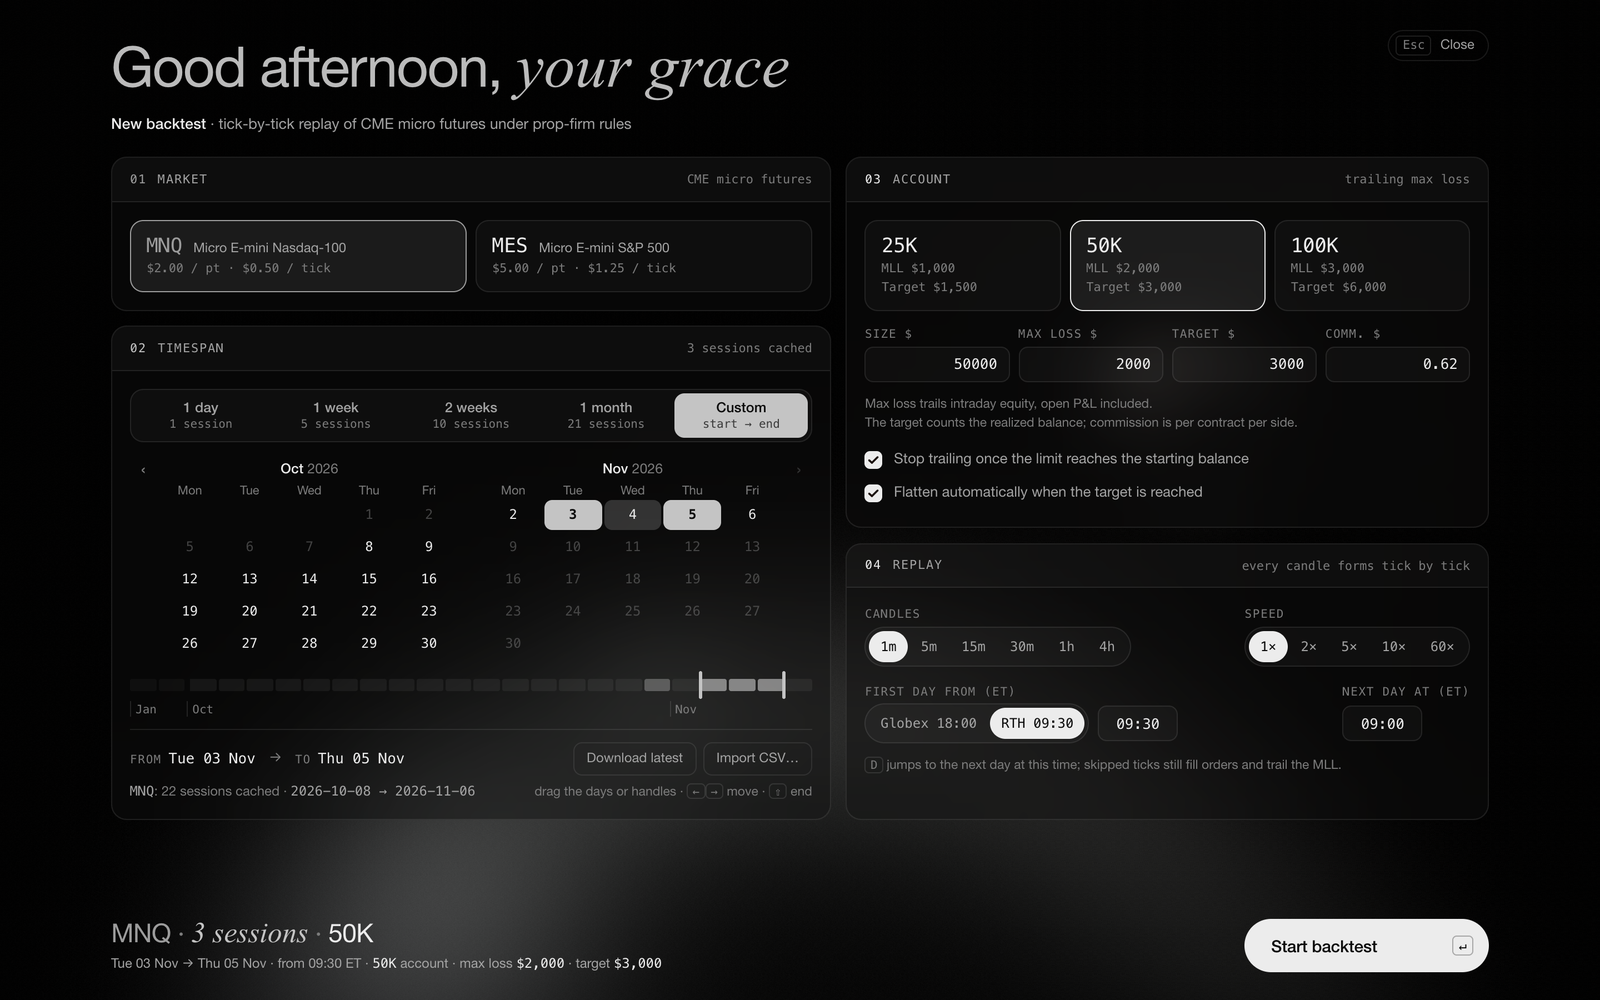
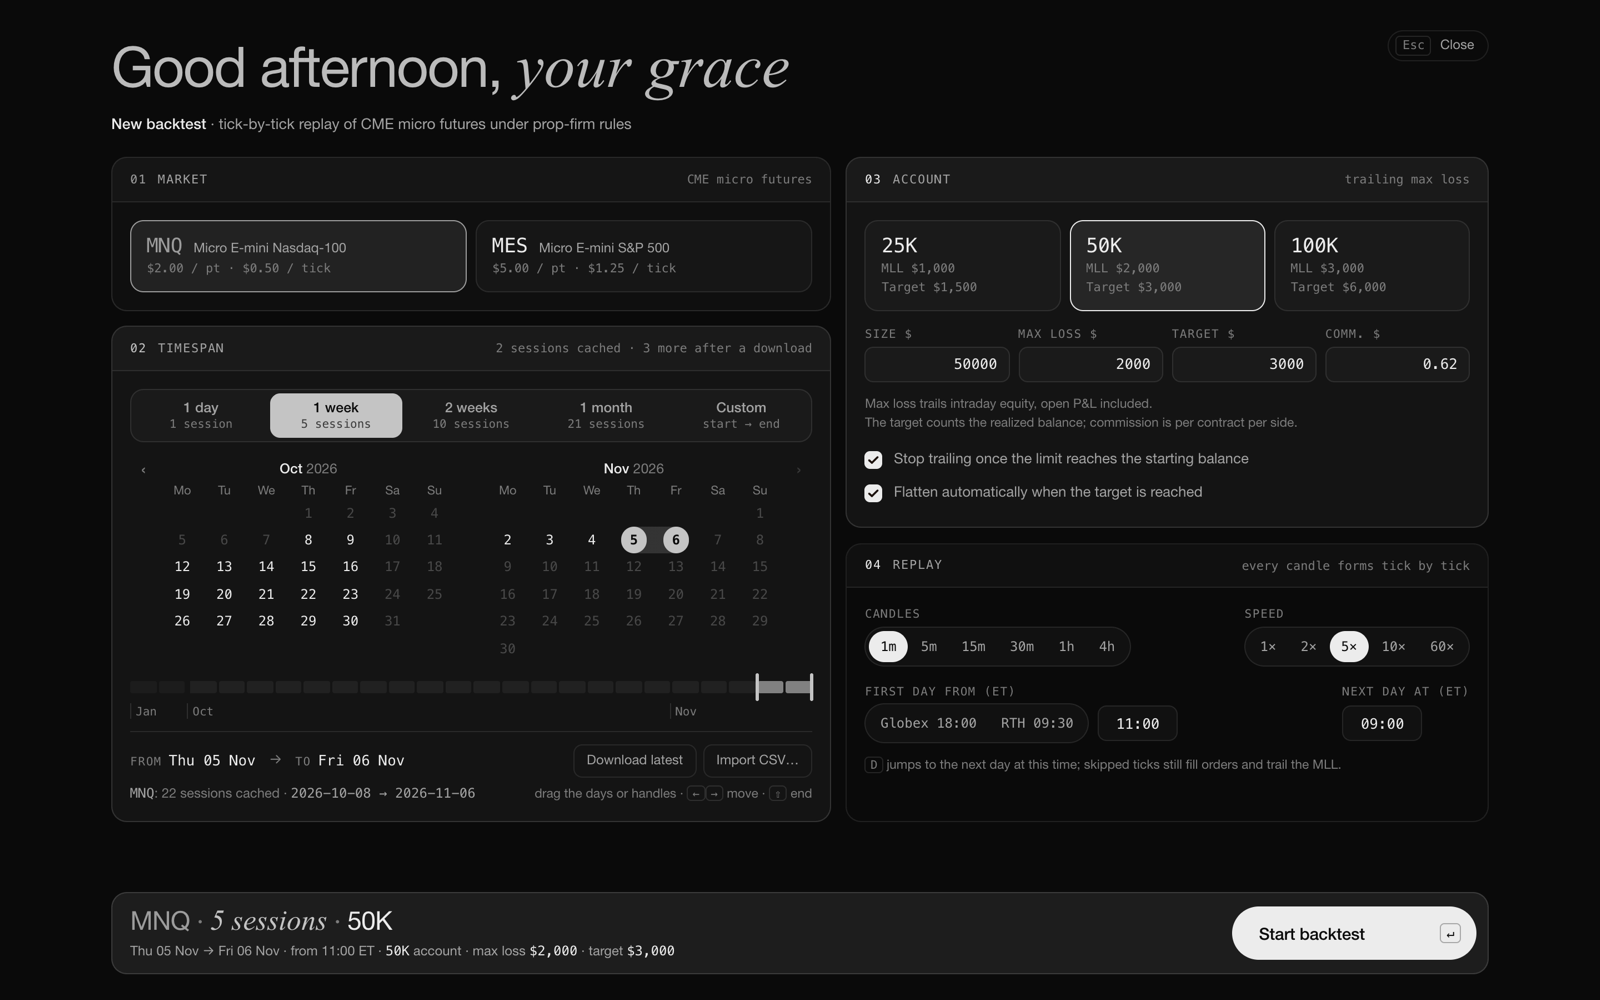
Edge 1.3: parallel channel, playhead, new calendar screenshots

diff --git a/README.md b/README.md
@@ -15,12 +15,12 @@
 ## Features
 
 - **Tick-by-tick replay** of MNQ and MES: every candle forms print by print, so you watch the wicks being made while you trade.
-- **Backtest a timespan**: 1 day, 1 week, 2 weeks, 1 month or any range: drag across the calendar, drag the handles on the timeline of your cached sessions, or nudge it with ← →. The replay runs day after day until the span ends.
-- **Speed 1× to 60×**: play, pause, step one tick, jump to the next candle, or **skip to the next day 09:00**. Orders, brackets and the drawdown still run through every skipped tick.
+- **Backtest a timespan**: 1 day, 1 week, 2 weeks, 1 month or any range: pick or drag any two dates on the calendar (drag a circle to move just that end), drag the handles on the timeline of your cached sessions, or nudge it with ← →. The replay runs day after day until the span ends.
+- **Speed 1× to 60×**: play, pause, step one tick, jump to the next candle, or **skip to the next day 09:00**. Toggle a **playhead** line at the replay's current time. Orders, brackets and the drawdown still run through every skipped tick.
 - **Prop-firm evaluations** for 25K, 50K and 100K accounts (or custom): a **trailing intraday max loss limit (MLL)** and a **pass target**, checked on every tick, with a clear **Passed** or **Blown** result.
 - **TradingView-style order panel**: Sell | Buy, Market · Limit · Stop · Stop Limit, units or **USD risk**, take profit and stop loss in price or ticks, risk / reward.
 - **Projected order on the chart**, just like TradingView: drag it and its TP / SL into place, then click its Buy / Sell pill to send it. Every order, TP and SL is a line you can drag, with × to cancel.
-- **Drawing tools**: long and short **position tools** (risk / reward, one click to place the trade), rejection block, OTE fib, the **10AM line** and a horizontal ray. Hold **⌘** to snap to the candle; one button removes them all.
+- **Drawing tools**: long and short **position tools** (risk / reward, one click to place the trade), rejection block, OTE fib, the **10AM line**, a horizontal ray and a **parallel channel**. Hold **⌘** to snap to the candle; one button removes them all.
 - **Timeframes** 1m · 5m · 15m · 30m · 1h · 4h, all forming tick by tick. Free panning in every direction, scroll to zoom time, independent price and time scales.
 - **Dark or Cream, Mono or Heat**: four colour schemes, with terracotta, sage and slate telling the parts of the screen apart (all white in Mono). Your own **chart colours** if you want them.
 - **App icon**: Default, Mono, Heat or match the palette. On macOS it stays after you quit.
@@ -43,7 +43,7 @@
 |---|---|
 | ![New backtest, Heat](images/setup.png) | ![New backtest, Mono](images/setup-mono.png) |
 
-**Drawing tools:** position tools with risk / reward and a button to place the trade, the 10AM line, rays, rejection block and OTE.
+**Drawing tools:** position tools with risk / reward and a button to place the trade, the 10AM line, rays, parallel channel, rejection block and OTE.
 
 ![Position tools, 10AM line and orders on the chart](images/drawing-tools.png)
 
